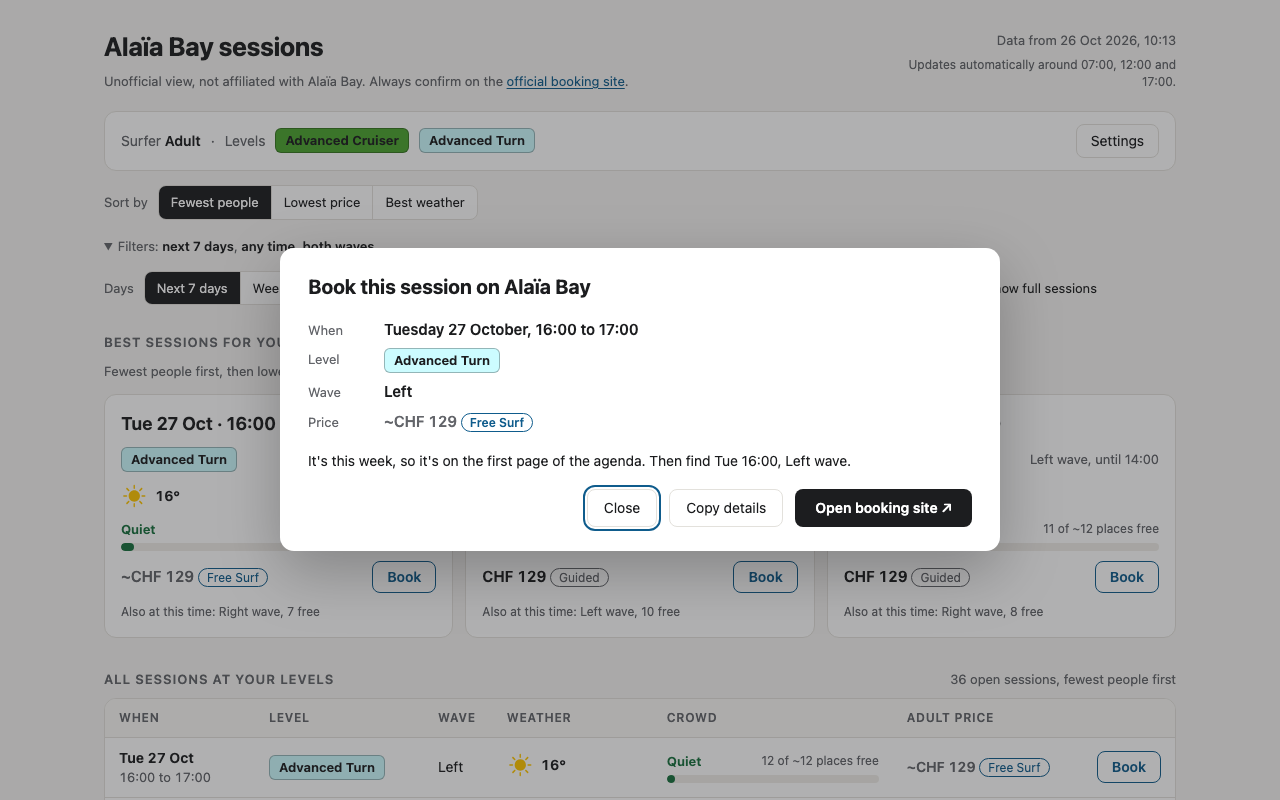
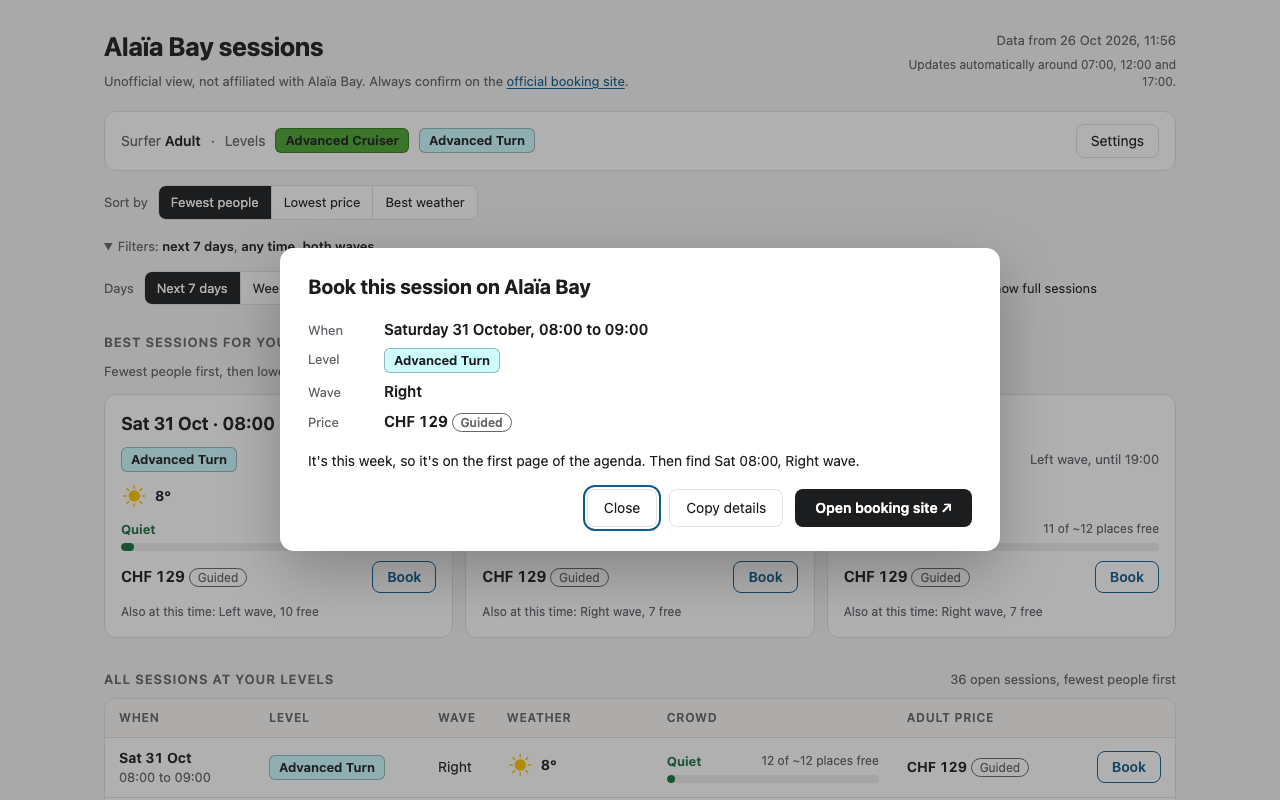
Polish the README
Add an at-a-glance comparison, put the phone shots side by side at the
same size, refresh this view's screenshots from the 11:56 data, and
tighten the copy.

diff --git a/README.md b/README.md
@@ -1,75 +1,107 @@
-# Alaïa Bay sessions (unofficial)
+# Alaïa Bay sessions
 
-An unofficial, easier-to-read view of the [Alaïa Bay](https://booking.alaiabay.ch/activity-agenda) surf session calendar. It is not made, run or endorsed by Alaïa Bay. Always confirm and book on the official booking site.
+**Find the right surf session at Alaïa Bay in 1 screen: your levels, ranked by crowd, price or weather.**
 
-Live page: https://sofianbettayeb.github.io/alaia-sessions/
+[Open the live page](https://sofianbettayeb.github.io/alaia-sessions/) · Updated 3 times a day
+
+> [!NOTE]
+> Unofficial personal tool, not made, run or endorsed by Alaïa Bay. Booking always happens on the [official booking site](https://booking.alaiabay.ch/activity-agenda).
+
+## At a glance
+
+| | Official agenda | This view |
+|---|---|---|
+| Your levels | Every level shown, matched by colour or a filter | Picked once, remembered |
+| Order | Time grid | Fewest people, lowest price or best weather |
+| Weather | None | MeteoSwiss forecast for each session's hour |
+| Places left | Behind a click on each slot | Shown for every session, with a crowd estimate |
+| Price | Behind a click on each slot | Shown for every session |
+| Range | 1 week per page | 2 weeks |
+| Phone | Grid cut off on the right | Session cards |
 
 ## Before and after
 
-**Before: the official agenda.** A colour-coded grid per wave, 1 week at a time. Each colour is a level (the legend is under the grid), an X means full. Places left and prices only appear when you click a slot.
+### Desktop
+
+**Official agenda.** A colour-coded grid per wave. Each colour is a level, explained in a legend under the grid, and an X means full.
 
 ![The official Alaïa Bay agenda on desktop](docs/screenshots/alaia-agenda-desktop.jpg)
 
-**After: this view.** Your levels only, ranked by what matters to you, with places left, price and the weather for every session.
+**This view.** Only your levels, in the order you chose, with weather, places left and price on every row.
 
 ![This view on desktop](docs/screenshots/desktop.png)
 
-**On a phone**
+### Phone
 
-| Official agenda | This view |
-|---|---|
-| ![Official agenda on a phone](docs/screenshots/alaia-agenda-phone.jpg) | ![This view on a phone](docs/screenshots/phone.png) |
+<table>
+  <tr>
+    <th>Official agenda</th>
+    <th>This view</th>
+  </tr>
+  <tr>
+    <td><img src="docs/screenshots/alaia-agenda-phone.jpg" alt="The official agenda on a phone, with Sunday cut off" width="320"></td>
+    <td><img src="docs/screenshots/phone.png" alt="This view on a phone, with sort options and session cards" width="320"></td>
+  </tr>
+</table>
 
-Both captured on 26 October 2026 with the same sessions. On a phone the official grid cuts off Sunday.
+Both captured on 26 October 2026.
 
 ## What changes when you look for a session
 
-### 1. Set your levels once
+### 1. You set your levels once
 
-The official agenda shows every level by default: you match colours against the legend, or set its level filter. Here you pick your levels on the first visit (and Adult or Kid), and the page remembers them in your browser. Every other level is hidden from then on.
+The official agenda shows every level, so you either match colours against the legend or set its level filter. Here you pick your levels on your first visit, along with Adult or Kid. Your browser remembers them, and every other level stays hidden.
 
-![First visit on a phone](docs/screenshots/first-visit-phone.png)
+<img src="docs/screenshots/first-visit-phone.png" alt="First visit: pick your levels and who is surfing" width="320">
 
-### 2. Sessions are ordered by what matters to you
+### 2. Sessions come in the order that matters to you
 
-The official agenda is a time grid: finding the quietest or cheapest session means opening slots one by one. Here "Sort by" ranks every session:
+On a time grid, finding the quietest or cheapest session means opening slots one by one. Here, **Sort by** ranks every session:
 
-- **Fewest people:** least booked first, then cheapest.
-- **Lowest price:** cheapest first, then least booked. On 26 October, for Advanced Cruiser and Advanced Turn, that put the 4 CHF 89 deal sessions of Sunday 1 November at the top.
-- **Best weather:** lowest chance of rain, then warmest.
+| Sort by | Order |
+|---|---|
+| Fewest people | Least booked first, then cheapest |
+| Lowest price | Cheapest first, then least booked |
+| Best weather | Lowest chance of rain, then warmest |
 
-The top 3 are shown as cards, 1 per start time, and the full list below follows the same order. Preferred days (in Settings) always come first. Filters narrow it down by days, time of day and wave.
+The top 3 appear as cards, 1 per start time, and the full list below follows the same order. Preferred days, set in Settings, always come first. Filters narrow the list by days, time of day and wave.
 
-### 3. The weather is next to every session
+For example, on 26 October, for Advanced Cruiser and Advanced Turn, **Lowest price** put the 4 CHF 89 deal sessions of Sunday 1 November at the top.
 
-An outdoor wave in October depends on the weather, and the official agenda has none. Without this page you check MeteoSwiss in another tab and match the hours yourself. Here each session shows the MeteoSwiss forecast for its hour: icon and temperature, plus a warning when rain is 30% likely or more, or the wind reaches 20 km/h. "Best weather" turns that into a ranking.
+### 3. The weather sits next to every session
+
+The wave is outdoors, and the official agenda has no weather. Without this page you open MeteoSwiss in another tab and line up the hours yourself. Here each session shows the forecast for its hour: an icon and the temperature, plus a warning when rain is 30% likely or more, or when the wind reaches 20 km/h. **Best weather** turns that into a ranking.
 
 ### 4. You see what the agenda keeps behind a click
 
-The booking site's data holds more than the grid shows. For every session at once, this page shows:
+The booking site's data holds more than its grid shows. For every session, this page shows:
 
-- **Places left**, which the official site keeps in a hidden field of each slot's booking popup (its "Entries left" filter only hides slots below a number), and a crowd estimate built from it (Quiet, Moderate, Busy).
-- **The price and session type** (Guided, Coached, Deal), which the official site only shows after a click, slot by slot. When a slot lists no price at all (its popup says "No products are available for this time slot!"), this page shows the usual price for that level, marked `~CHF`.
-- **2 weeks at once**, instead of 1 week per page.
+- **Places left.** The official site keeps them in a hidden field of each slot's booking popup, and its "Entries left" filter only hides slots below a number. This page shows the number and turns it into a crowd estimate: Quiet, Moderate or Busy.
+- **Price and session type** (Guided, Coached, Deal). The official site shows these only after you click a slot. When a slot lists no price at all, its popup says "No products are available for this time slot!", and this page shows the usual price for that level, marked `~CHF`.
+- **2 weeks**, instead of 1 week per page.
 
 ### 5. Booking still happens on Alaïa Bay
 
-The booking site has no link to a single session: it picks the agenda week from a server-side session. So "Book" opens a panel that sums up the session, says which week of the agenda to open, and offers "Copy details" and "Open booking site".
+The booking site has no link to a single session, because it picks the agenda week from a server-side session. So **Book** opens a summary of the session, says which week of the agenda to open, and offers **Copy details** and **Open booking site**.
 
-![The booking panel](docs/screenshots/book-panel.png)
+![The Book panel](docs/screenshots/book-panel.png)
 
 ## How it works
 
-- `scrape_agenda.py` replays the agenda's own requests and opens each slot's booking popup to read places left and prices. It writes `agenda.json`.
-- `fetch_forecast.py` reads the [MeteoSwiss open data](https://opendatadocs.meteoswiss.ch/e-forecast-data/e4-local-forecast-data) local forecast for Sion (postal code 1950), the same forecast the MeteoSwiss app shows, and writes `forecast.json`.
-- `build_view.py` turns `agenda.json`, `forecast.json` and `view_template.html` into `index.html`, a single static page.
-- A GitHub Actions workflow (`.github/workflows/refresh.yml`) reruns all 3 around 07:00, 12:00 and 17:00 Swiss time and commits the result. GitHub Pages serves `index.html`. If MeteoSwiss is unavailable, the last forecast is kept and the sessions still update.
+| File | What it does |
+|---|---|
+| `scrape_agenda.py` | Replays the agenda's own requests and opens each slot's booking popup to read places left and prices. Writes `agenda.json`. |
+| `fetch_forecast.py` | Reads the [MeteoSwiss open data](https://opendatadocs.meteoswiss.ch/e-forecast-data/e4-local-forecast-data) local forecast for Sion (postal code 1950), the same forecast the MeteoSwiss app shows. Writes `forecast.json`. |
+| `build_view.py` | Combines `agenda.json`, `forecast.json` and `view_template.html` into `index.html`, a single static page. |
+| `.github/workflows/refresh.yml` | Reruns all 3 around 07:00, 12:00 and 17:00 Swiss time and commits the result. GitHub Pages serves `index.html`. |
+
+If MeteoSwiss is unavailable, the last forecast is kept and the sessions still update.
 
 ## Methodology
 
 ### Crowd
 
-The booking popup gives the places left for each slot, but not the capacity. Capacity is estimated as the most places ever seen free for that level, with a minimum of 12. "Booked" is capacity minus places left:
+The booking popup gives the places left for each slot, but not the capacity. Capacity is estimated as the most places ever seen free for that level, with a minimum of 12. "Booked" is capacity minus places left.
 
 | Booked | Label |
 |---|---|
@@ -80,22 +112,25 @@ The booking popup gives the places left for each slot, but not the capacity. Cap
 
 ### Price
 
-The price is the slot's adult product, or its kid product when the surfer is set to Kid and the slot has one. Kid mode tags slots with no kid rate as "Adult rate". When a slot lists no products, the page shows the most common listed price for that level, marked `~CHF`.
+The price is the slot's adult product, or its kid product when the surfer is set to Kid and the slot has one. In Kid mode, a slot with no kid rate is tagged "Adult rate". When a slot lists no products, the page shows the most common listed price for that level, marked `~CHF`.
 
 ### Weather
 
-MeteoSwiss publishes 1 CSV per parameter for every Swiss postal code, updated hourly and covering 8 days. Only the Sion rows are kept, and UTC times are converted to Swiss time. Each session reads the hourly values stamped at the end of its hour: a 16:00 to 17:00 session uses the 17:00 values. Sessions past the forecast, about 7 days out, show "No forecast yet" and go last under "Best weather". The rain ranking uses steps of 10%. When every session is dry, the page says it is ranking by warmth.
+- MeteoSwiss publishes 1 CSV per parameter for every Swiss postal code, updated hourly and covering 8 days. Only the Sion rows are kept, and UTC times are converted to Swiss time.
+- Each session reads the hourly values stamped at the end of its hour: a 16:00 to 17:00 session uses the 17:00 values.
+- **Best weather** compares the chance of rain in steps of 10%, then the temperature. When every session is dry, the page says it is ranking by warmth.
+- Sessions past the forecast, about 7 days out, show "No forecast yet" and go last under **Best weather**.
 
-## Design review, 26 October 2026
+## Design review
 
-The page went through the Impeccable `critique` command (a design review and an automated detector, run separately, then combined). It scored **26/40** on Nielsen's 10 usability heuristics. The 5 priority issues were fixed in commits `7b4efcb` and `f3ff6c4`:
+On 26 October 2026 the page went through the Impeccable `critique` command: a design review and an automated detector, run separately and then combined. It scored **26/40** on Nielsen's 10 usability heuristics. The 5 priority issues were fixed in `7b4efcb` and `f3ff6c4`.
 
 | Severity | Issue | Fix |
 |---|---|---|
-| P0 | On a phone the session table scrolled sideways (861px of content on a 375px screen). | Below 920px each session becomes a compact card. |
-| P1 | "Book" opened the generic agenda, so the slot details had to be remembered across sites. | "Book" opens a panel with the details, the week to open and a copy button. |
-| P1 | The first visit was a form with 8 controls that opened with a red error. | The first visit asks only for levels and Adult or Kid. Sort and filters moved onto the page. |
-| P1 | White text on the green "Advanced Cruiser" pill was 3.2:1, below the 4.5:1 minimum. | Each pill uses whichever text colour contrasts more (5.3:1 on that green). |
+| P0 | On a phone the session table scrolled sideways: 861px of content on a 375px screen. | Below 920px each session becomes a compact card. |
+| P1 | **Book** opened the generic agenda, so the session details had to be remembered across sites. | **Book** opens a summary with the week to open and a copy button. |
+| P1 | The first visit was a form with 8 controls that opened with a red error. | The first visit asks only for levels and Adult or Kid. Sorting and filters moved onto the page. |
+| P1 | White text on the green Advanced Cruiser label was 3.2:1, below the 4.5:1 minimum. | Each level label uses whichever text colour contrasts more: 5.3:1 on that green. |
 | P2 | 2 of the 3 best sessions were often the Left and Right wave of the same hour. | 1 card per start time, naming the other wave. |
 
 ## Run it locally
@@ -104,4 +139,4 @@ The page went through the Impeccable `critique` command (a design review and an 
 python3 serve.py
 ```
 
-Then open http://localhost:4322/. Locally the page has a "Refresh data" button that reruns the scraper and the forecast (about 1 minute).
+Then open http://localhost:4322/. Locally the page has a **Refresh data** button that reruns the scraper and the forecast in about 1 minute.
